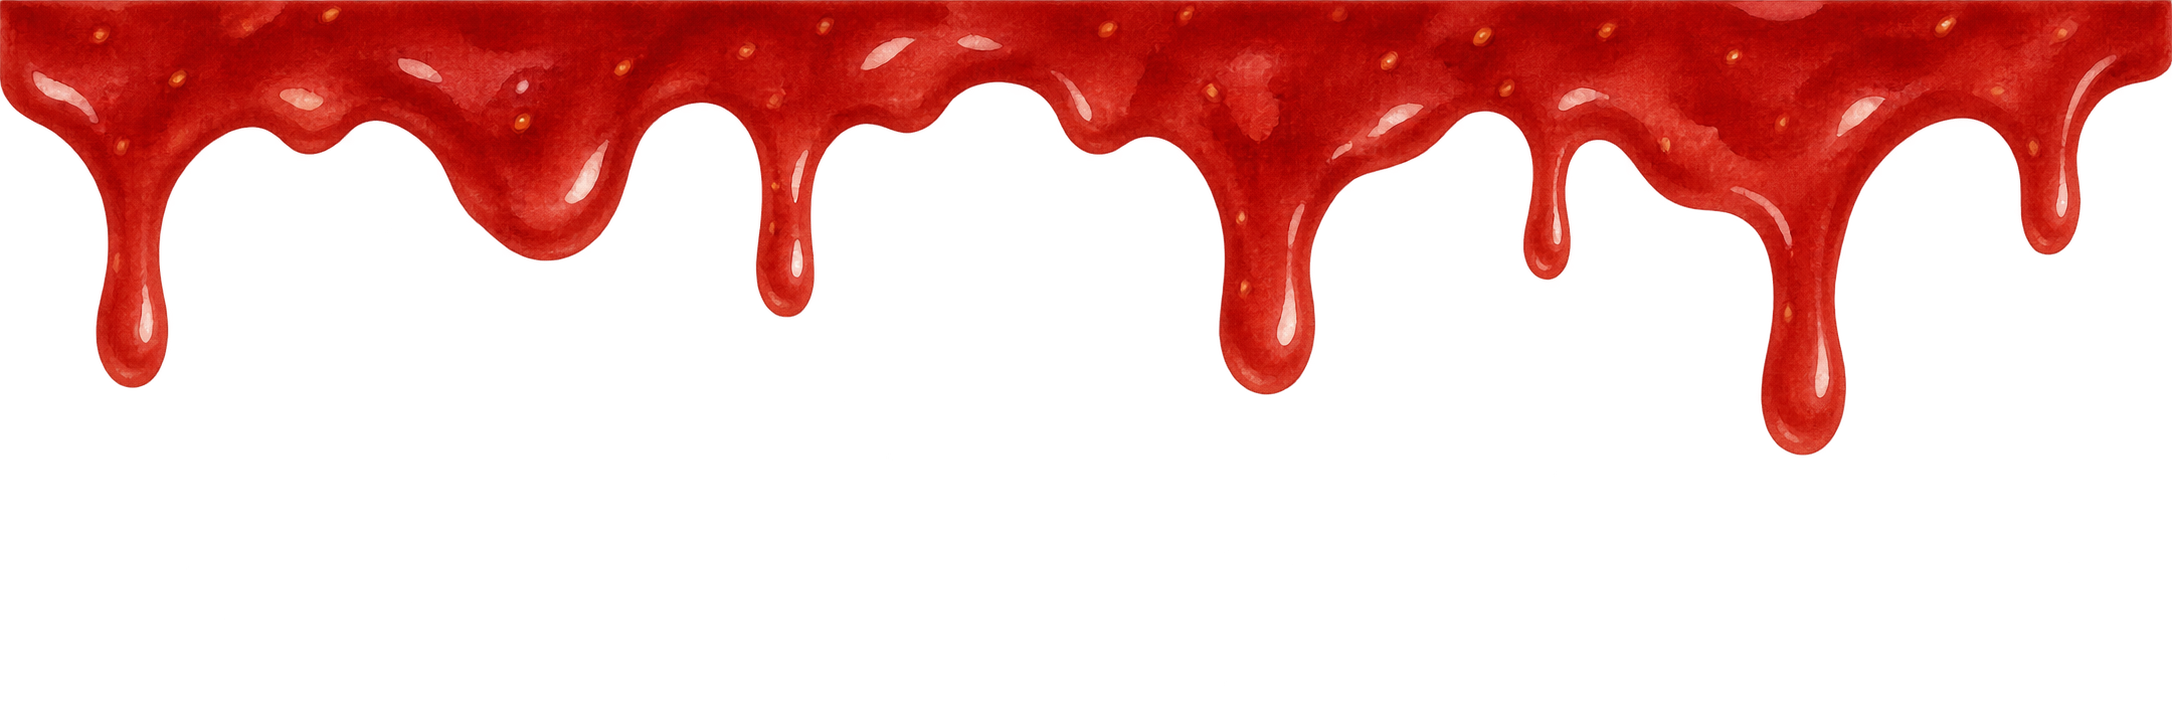
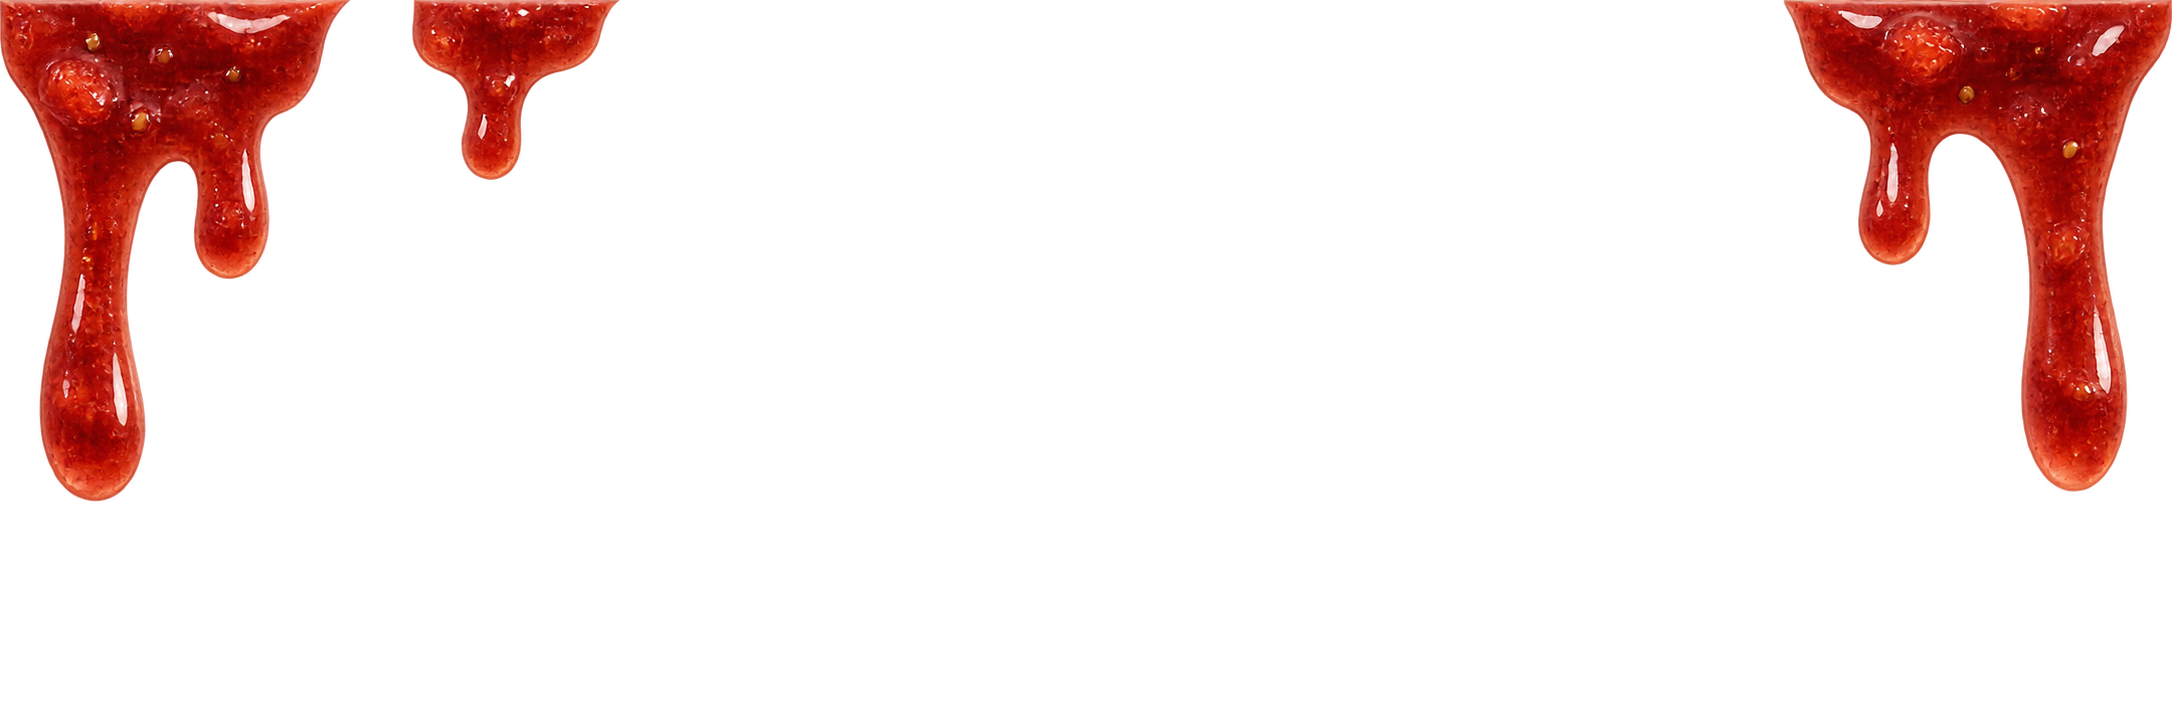
Swap popular recipe jam bg image, lighten intro title span, restyle pop-list numbers

Changed region(s): [[0.0, 0.0, 1.0, 0.6989]]

diff --git a/style.css b/style.css
@@ -115,6 +115,7 @@ a:focus-visible, button:focus-visible, input:focus-visible {
 /* ===== 소개 ===== */
 .intro { text-align: center; }
 .intro-title { font-family: var(--font-title); font-size: 36px; font-weight: 700; line-height: 1.4; }
+.intro-title-light { font-weight: 400; }
 .intro-steps { display: flex; gap: 20px; margin-top: 60px; }
 .intro-step { position: relative; flex: 1; min-width: 0; display: flex; flex-direction: column; gap: 12px; padding: 40px 28px; }
 .intro-step::before { content: ''; align-self: center; width: 120px; height: 120px; margin-bottom: 8px; background: url(img/intro-step-icon.png) no-repeat; background-size: 300% 100%; background-position: 0 50%; }
@@ -131,7 +132,7 @@ a:focus-visible, button:focus-visible, input:focus-visible {
 .pop-bg {
   padding-top: 140px;
   background:
-    url(img/strawberry-jam2.png) no-repeat top center / 100% auto,
+    url(img/strawberry-jam.png) no-repeat top center / 100% auto,
     var(--cream) url(img/popular-recipe-bg.png) no-repeat center / cover;
 }
 .sec-head.center { justify-content: center; text-align: center; }
@@ -152,7 +153,7 @@ a:focus-visible, button:focus-visible, input:focus-visible {
 .pop-col h4 { font-family: var(--font-point); font-size: 24px; font-weight: 400; color: var(--board); margin-bottom: 20px; }
 .pop-list { counter-reset: n; display: flex; flex-direction: column; gap: 20px; }
 .pop-list li { counter-increment: n; display: flex; align-items: center; gap: 12px; font-size: 16px; }
-.pop-list li::before { content: counter(n); flex: 0 0 32px; height: 32px; border-radius: 50%; background: var(--beige); display: flex; align-items: center; justify-content: center; font-size: 14px; font-weight: 700; }
+.pop-list li::before { content: counter(n); flex: 0 0 32px; height: 32px; border-radius: 50%; background: var(--board); color: var(--white); display: flex; align-items: center; justify-content: center; font-size: 14px; font-weight: 700; }
 /* 왼쪽(재료): 번호가 이미지 쪽(오른쪽)에 붙고 글자는 오른쪽 정렬 */
 .pop-left { text-align: right; }
 .pop-left li { flex-direction: row-reverse; }

diff --git a/index.html b/index.html
@@ -59,7 +59,7 @@
   <!-- 소개 -->
   <section class="sec intro">
     <div class="inner">
-      <h2 class="intro-title">좋아하는 카페 음료,<br>이제 집에서 만들어보세요.</h2>
+      <h2 class="intro-title"><span class="intro-title-light">좋아하는 카페 음료,</span><br>이제 집에서 만들어보세요.</h2>
       <ul class="intro-steps">
         <li class="intro-step">
           <h3>원하는 음료 찾기</h3>
